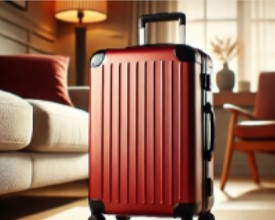
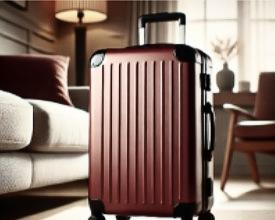
假資料圖片更新

diff --git a/src/app/components/socialmedia/socialmedia.component.css b/src/app/components/socialmedia/socialmedia.component.css
@@ -29,7 +29,7 @@ strong {
 
 .fixed-sidebar {
   position: sticky;
-  top: 200px;
+  top: 150px;
 }
 
 .custom-btn {
